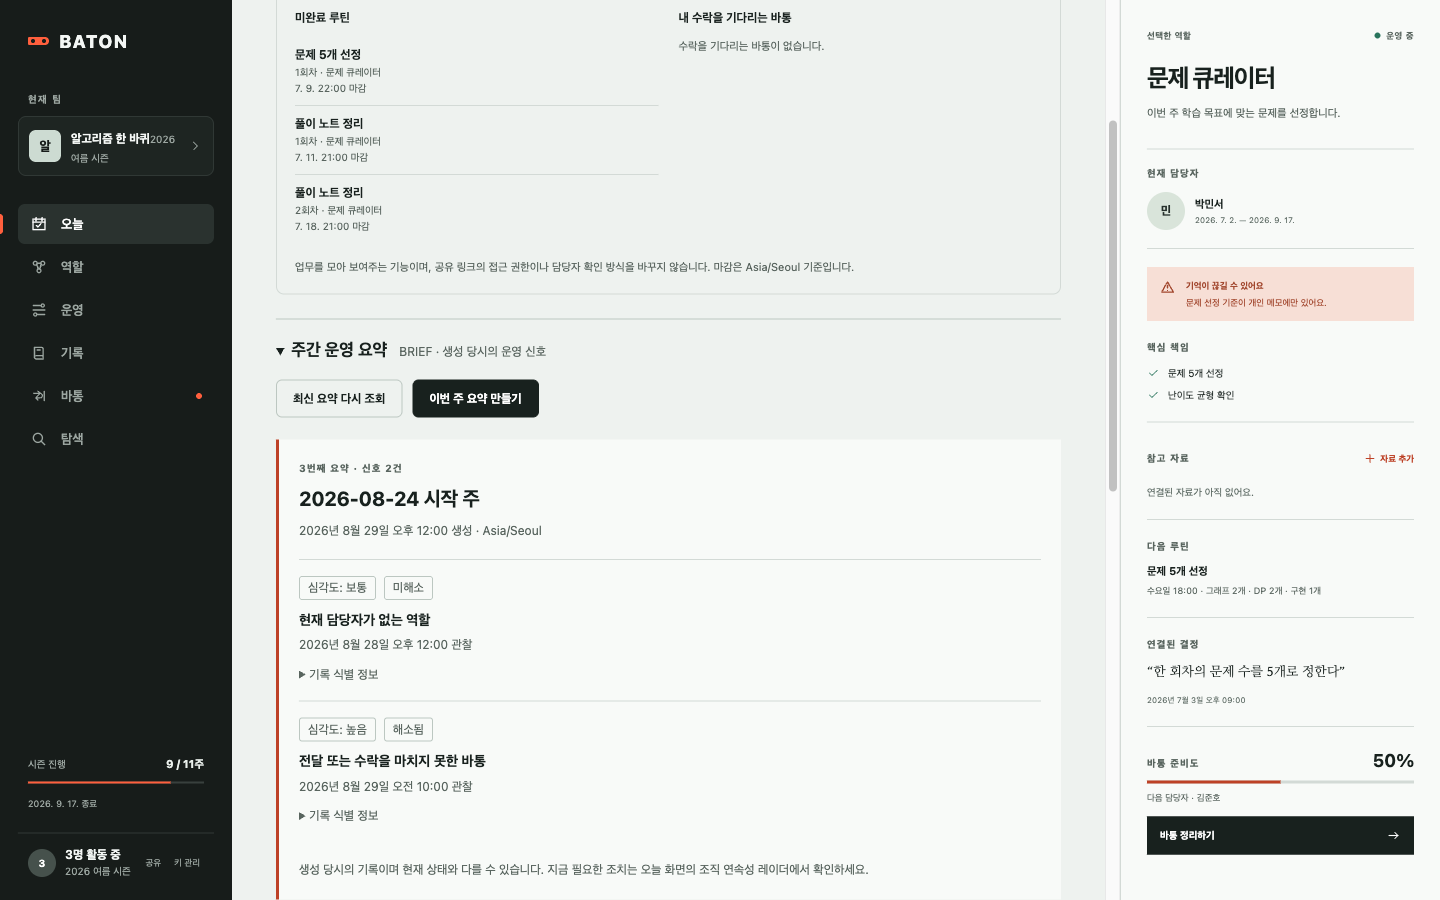
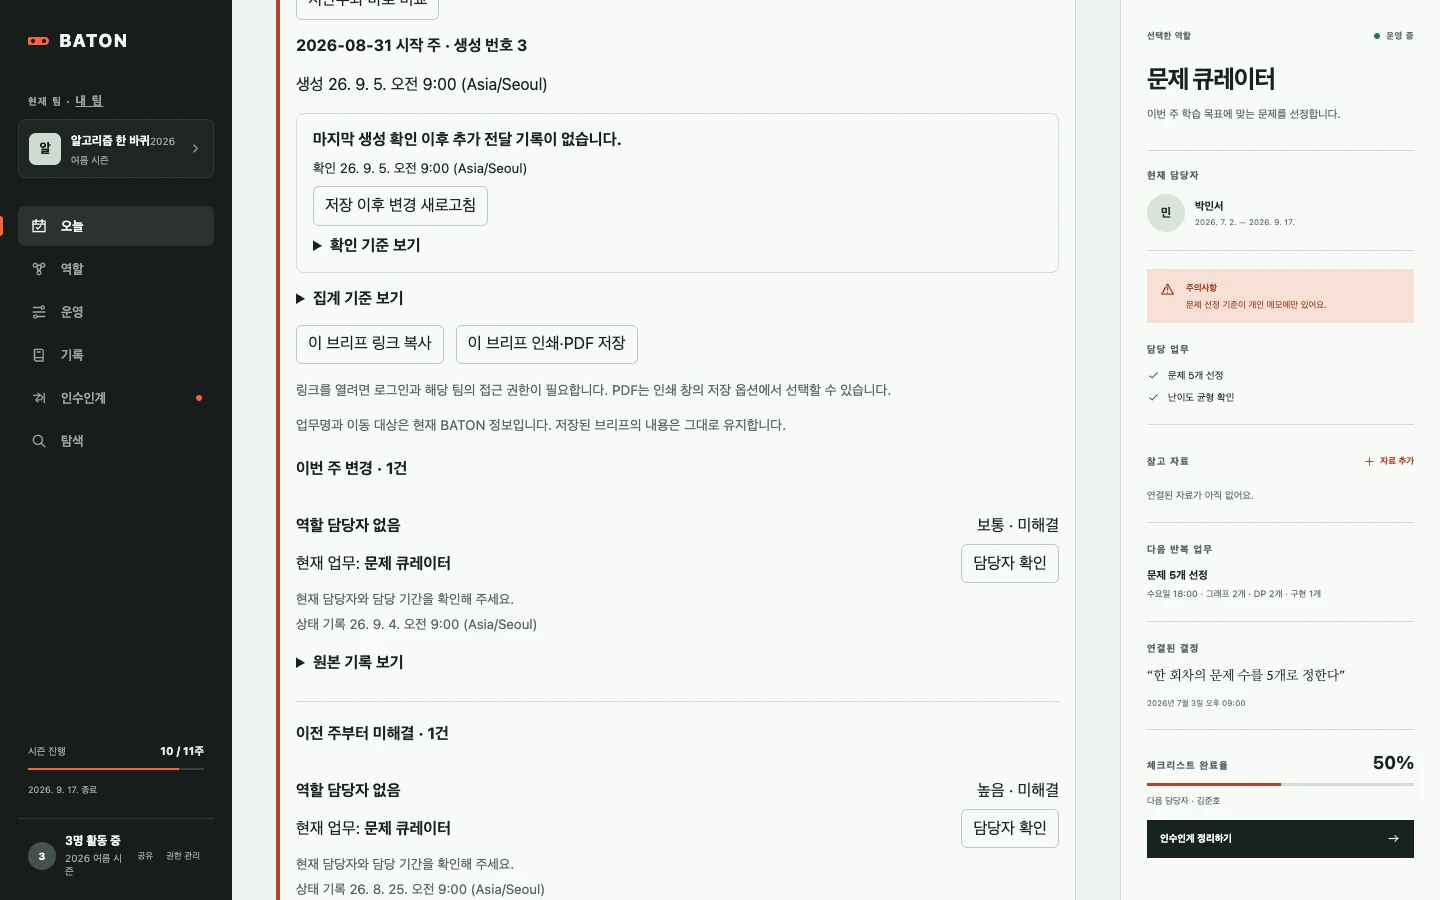
fix: BATON 최신 문구로 프로젝트 화면 교체

diff --git a/docs/project-progress-2026-09-06.md b/docs/project-progress-2026-09-06.md
@@ -37,6 +37,12 @@
 
 모바일 캡처에서는 Next.js 개발 표시만 제외했다. 캡처 원본·임시 실행 도구는 무시되는 `output/playwright/project-progress/`와 `output/validation/`에 보관했다. 기존의 다른 스크린샷은 해당 기능의 이전 확인 자료로 유지한다.
 
+### BATON 문구 수정 후 재촬영
+
+BATON Core의 로컬 커밋 `1916d8c8`을 기준으로 오늘 업무·여러 팀의 내 업무·운영 점검·기록 검색·인수인계 문서와 BRIEF 주간 보고서 6장을 교체했다. `인수인계`, `반복 업무`, `체크리스트 완료율`, `미해결` 등 수정된 화면 문구를 반영했다.
+
+원본 작업 폴더의 병합 중 변경이 섞이지 않도록 커밋된 프런트엔드를 별도 폴더에서 실행했다. 같은 커밋의 `workspaceApiHarness`와 BRIEF 테스트 계약을 사용했으며 실제 서버 연동이나 운영 데이터 검증은 포함하지 않는다. 원본 PNG와 촬영 도구는 `output/playwright/baton-recapture/`에 보관했다. 이미지 경로와 크기는 유지했다.
+
 ## 검증 해석과 남은 범위
 
 -   청년정책메이트의 정책 40건은 전체 서울 정책이 아니다. 질문 5종도 일부 공통 요건만 다루며 최종 자격·환급액을 판정하지 않는다. `c8cfc33`의 서버 테스트 436건·빌드 기록을 확인했다. 이 작업에서는 해당 서버 전체 테스트를 재실행하지 않았다.
